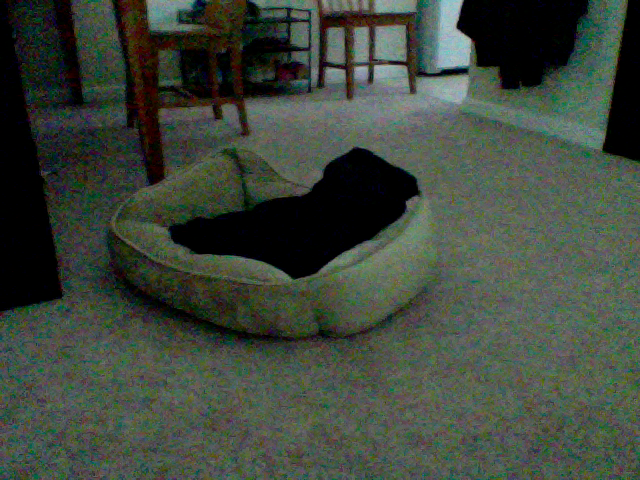
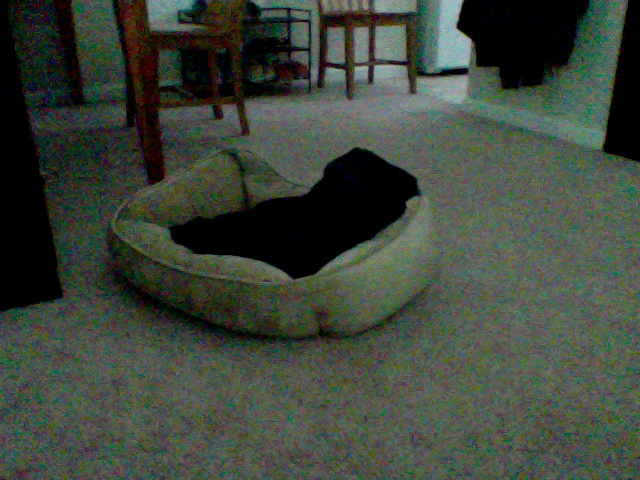
update at Month05Day09Time10:45

diff --git a/index.html b/index.html
@@ -40,7 +40,7 @@
       <div class="row">
         <div class="col-md-4">
 	<p>This picture was updated at Month05Day09Time10:45</p>
-		<img src="5_pic.png" />
+		<img src="6_pic.png" />
         </div>
       </div>
 
